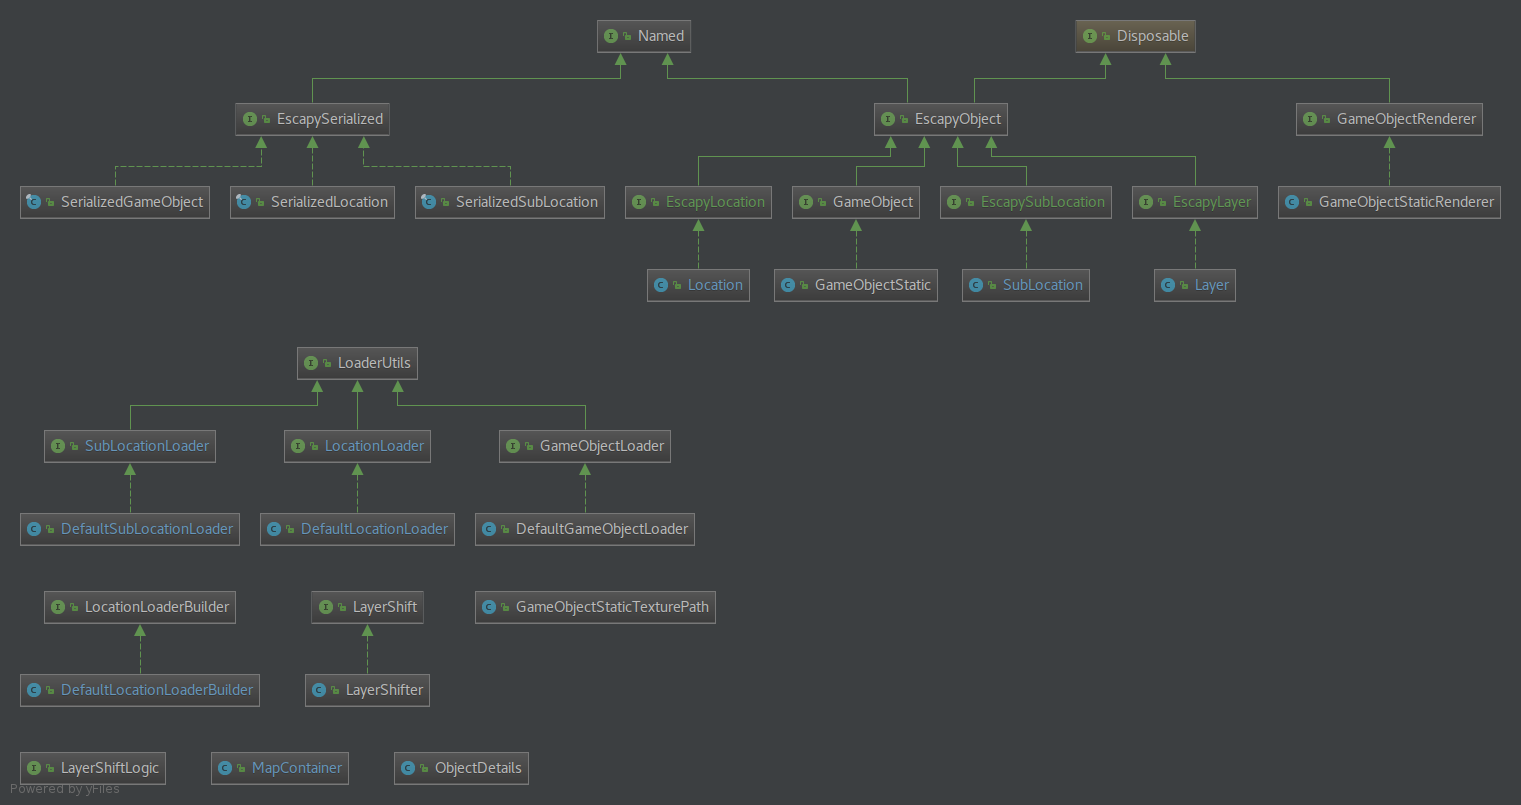
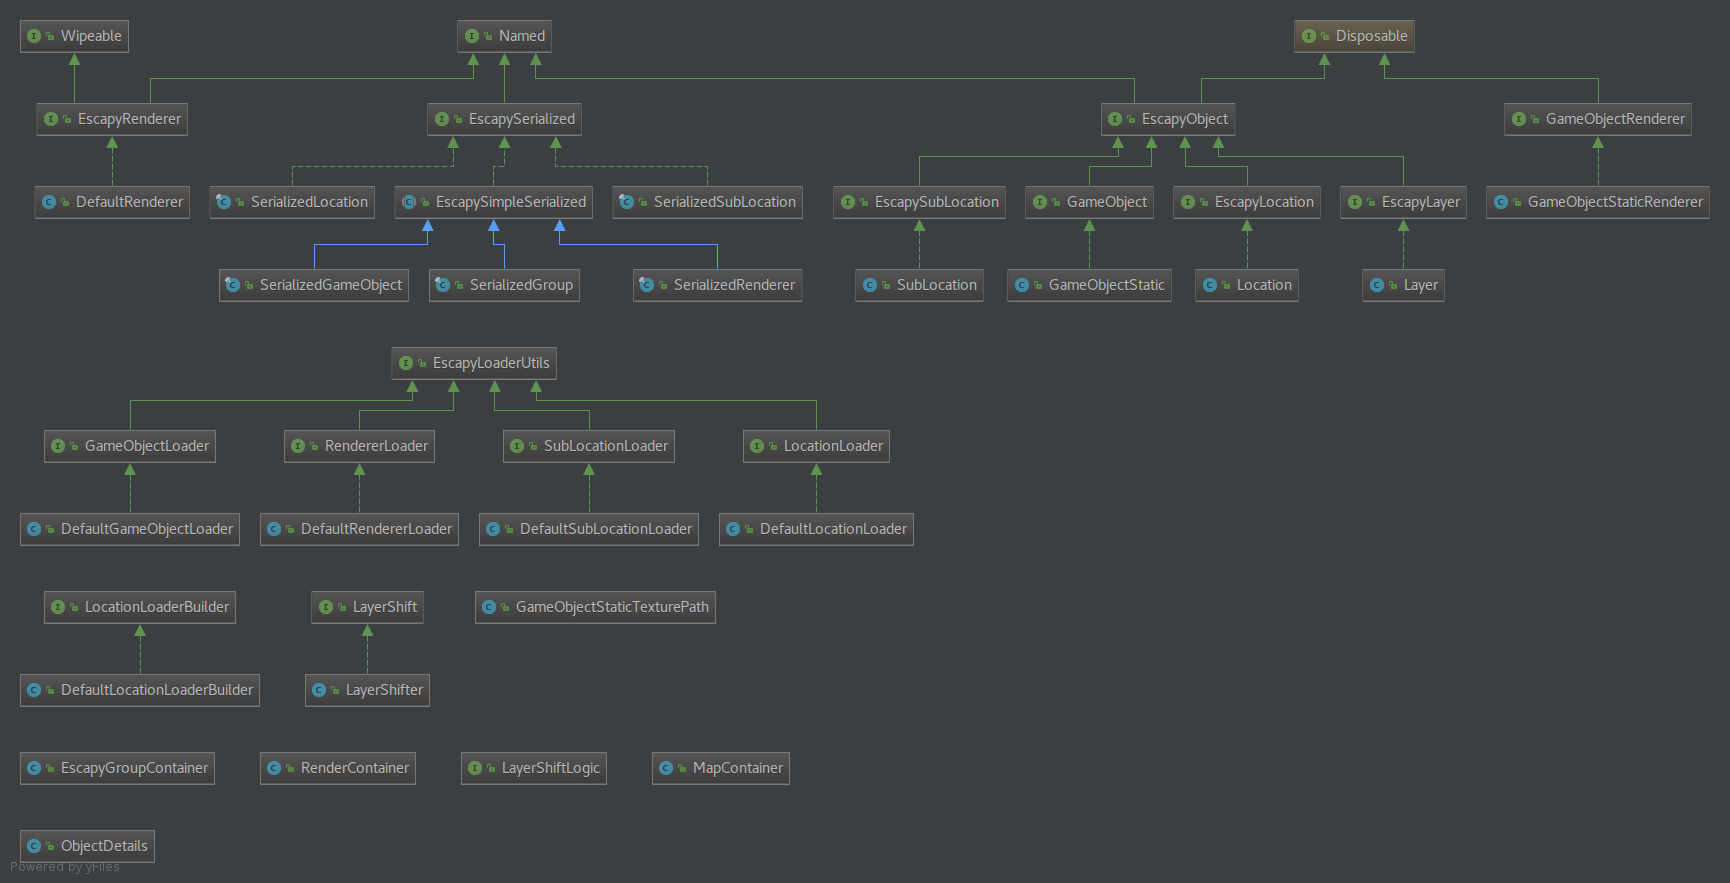
E2-19 Layers renderer Done #E2-19 Done

diff --git a/core/src/net/irregular/escapy/engine/group/map/loader/serial/SerializedSubLocation.java b/core/src/net/irregular/escapy/engine/group/map/loader/serial/SerializedSubLocation.java
@@ -2,70 +2,45 @@ package net.irregular.escapy.engine.group.map.loader.serial;
 
 import com.google.gson.annotations.Expose;
 import com.google.gson.annotations.SerializedName;
-import net.irregular.escapy.engine.env.utils.serial.EscapySerialized;
+import net.irregular.escapy.engine.env.utils.serial.EscapySimpleSerialized;
 
 import java.util.List;
 
 /**
  * @author Henry on 13/07/17.
  */
-public final class SerializedSubLocation implements EscapySerialized {
+public final class SerializedSubLocation extends EscapySimpleSerialized {
 
 	public static final String VALID_TYPE = "SubLocation";
+	@Override public String getValidType() {
+		return VALID_TYPE;
+	}
 
-
-	@SerializedName("type") @Expose public String type;
-	@SerializedName("name") @Expose public String name;
 	@SerializedName("layers") @Expose public List<SerializedLayer> layers = null;
 	@SerializedName("layerGroups") @Expose public List<SerializedLayerGroup> layerGroups = null;
 	@SerializedName("attributes") @Expose public List<String> attributes = null;
 
 
-	public static final class SerializedLayer implements EscapySerialized {
-		@SerializedName("name") @Expose public String name;
+	public static final class SerializedLayer extends EscapySimpleSerialized {
+
 		@SerializedName("axis_z") @Expose public float axisZ;
 		@SerializedName("shift") @Expose public SerializedShift shift;
 		@SerializedName("objects") @Expose public List<SerializedGameObject> objects = null;
 		@SerializedName("attributes") @Expose public List<String> attributes = null;
-
-		@Override public String getName() {
-			return name;
-		}
 	}
 
 
-	public static final class SerializedShift implements EscapySerialized {
-		@SerializedName("name") @Expose public String name;
+	public static final class SerializedShift extends EscapySimpleSerialized {
+
 		@SerializedName("offset2f") @Expose public List<Float> offset = null;
 		@SerializedName("pinPoint2f") @Expose public List<Float> pinPoint = null;
 		@SerializedName("directVec2f") @Expose public List<Float> directVec = null;
-
-		@Override public String getName() {
-			return name;
-		}
 	}
 
 
-	public static final class SerializedLayerGroup implements EscapySerialized {
-
-		@SerializedName("name") @Expose public String name;
+	public static final class SerializedLayerGroup extends EscapySimpleSerialized {
 		@SerializedName("layers") @Expose public List<String> layers = null;
-
-		@Override public String getName() {
-			return name;
-		}
 	}
 
-
-
-	@Override public String getName() {
-		return name;
-	}
-	@Override public String getValidType() {
-		return VALID_TYPE;
-	}
-	@Override public String getType() {
-		return type;
-	}
 
 }

diff --git a/core/src/net/irregular/escapy/engine/group/render/RenderContainer.java b/core/src/net/irregular/escapy/engine/group/render/RenderContainer.java
@@ -12,15 +12,13 @@ import java.util.Map;
 /**
  * @author Henry on 19/07/17.
  */
-public class RenderContainer {
+public class RenderContainer implements EscapyRenderer {
 
 	private final Map<String, Map<String, String>> rendererMap;
 	private final RendererLoader<EscapySubLocation> rendererLoader;
 	private final EscapyProxyListener proxyListener;
 
 	private EscapyRenderer renderer;
-
-
 
 
 	public static final class TargetGroup {
@@ -34,32 +32,28 @@ public class RenderContainer {
 			this.subName = subName;
 			this.path = path;
 		}
-
 	}
+
 
 	private final class RenderProxyListener implements EscapyProxyListener {
 
 		@Override
 		public void onProxyMethodInvoked(Object methodResult, String methodName) {
-
-			System.out.println("Listener:RESULT: "+methodResult);
-			System.out.println("Listener:NAME: "+methodName);
-			System.out.println();
-
 			if (methodResult != null
 					&& methodResult instanceof EscapySubLocation && methodName.equals("switchSubLocation"))
 			{
 				final EscapySubLocation subLocation = (EscapySubLocation) methodResult;
 				final String parentName = subLocation.getParentLocation().getName();
 				final String path = rendererMap.get(parentName).get(subLocation.getName());
-
 				renderer = rendererLoader.loadRenderer(path, subLocation);
 			}
 		}
-
 	}
 
 
+	public EscapyProxyListener getProxyListener() {
+		return proxyListener;
+	}
 
 
 	public RenderContainer(RendererLoader<EscapySubLocation> rendererLoader,
@@ -77,18 +71,28 @@ public class RenderContainer {
 
 
 
+	@Override
+	public <T> T getRendererAttribute(String name) {
+		return renderer.getRendererAttribute(name);
+	}
 
+	@Override
 	public void render(float delta) {
 		if (renderer != null) {
 			renderer.render(delta);
 		}
 	}
 
+	@Override
 	public void resize(int width, int height) {
-		if (renderer != null) renderer.resize(width, height);
+		if (renderer != null) {
+			renderer.resize(width, height);
+		}
 	}
 
-	public EscapyProxyListener getProxyListener() {
-		return proxyListener;
+	@Override
+	public String getName() {
+		return renderer.getName();
 	}
+
 }

diff --git a/core/src/net/irregular/escapy/engine/group/map/loader/serial/SerializedLocation.java b/core/src/net/irregular/escapy/engine/group/map/loader/serial/SerializedLocation.java
@@ -2,46 +2,26 @@ package net.irregular.escapy.engine.group.map.loader.serial;
 
 import com.google.gson.annotations.Expose;
 import com.google.gson.annotations.SerializedName;
-import net.irregular.escapy.engine.env.utils.serial.EscapySerialized;
+import net.irregular.escapy.engine.env.utils.serial.EscapySimpleSerialized;
 
 import java.util.List;
 
 /**
  * @author Henry on 13/07/17.
  */
-public final class SerializedLocation implements EscapySerialized {
+public final class SerializedLocation extends EscapySimpleSerialized {
 
 	public static final String VALID_TYPE = "Location";
+	@Override public String getValidType() {
+		return VALID_TYPE;
+	}
 
-	@SerializedName("type") @Expose public String type;
-	@SerializedName("name") @Expose public String name;
 	@SerializedName("subLocations") @Expose public List<SerializedSubLocationUnit> subLocations = null;
 	@SerializedName("attributes") @Expose public List<String> attributes = null;
 
 
-
-	public static final class SerializedSubLocationUnit implements EscapySerialized {
-		@SerializedName("name") @Expose public String name;
+	public static final class SerializedSubLocationUnit extends EscapySimpleSerialized {
 		@SerializedName("path") @Expose public String path;
-		@Override public String getName() {
-			return name;
-		}
 	}
 
-
-
-	@Override
-	public String getName() {
-		return name;
-	}
-
-	@Override
-	public String getValidType() {
-		return VALID_TYPE;
-	}
-
-	@Override
-	public String getType() {
-		return type;
-	}
 }

diff --git a/core/src/net/irregular/escapy/engine/group/container/EscapyGroupContainer.java b/core/src/net/irregular/escapy/engine/group/container/EscapyGroupContainer.java
@@ -9,6 +9,7 @@ import net.irregular.escapy.engine.group.map.MapContainer;
 import net.irregular.escapy.engine.group.map.core.location.EscapySubLocation;
 import net.irregular.escapy.engine.group.map.loader.LocationLoader;
 import net.irregular.escapy.engine.group.render.RenderContainer;
+import net.irregular.escapy.engine.group.render.core.EscapyRenderer;
 import net.irregular.escapy.engine.group.render.loader.RendererLoader;
 
 import java.io.InputStreamReader;
@@ -106,7 +107,7 @@ public class EscapyGroupContainer {
 		return mapContainer;
 	}
 
-	public RenderContainer getRenderContainer() {
+	public EscapyRenderer getRenderContainer() {
 		return renderContainer;
 	}
 
